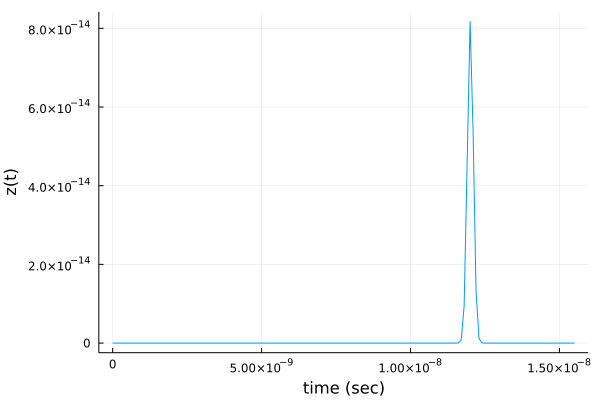
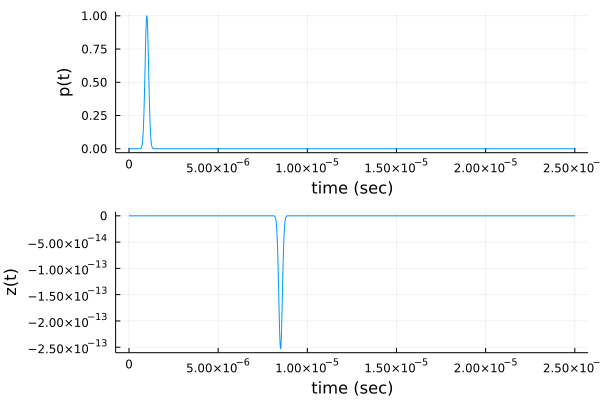
update LTIDir A

diff --git a/docs/src/directionalLTI/dirLTIsource.md b/docs/src/directionalLTI/dirLTIsource.md
@@ -108,15 +108,18 @@ using LTVsystems
 using Plots
 𝐩ₛ =  [0.0, 0.0]
 𝐩ᵣ =  𝐩ₛ
-p(t) = δn(t,1.0e-10)
+tₚ = 1.0e-06 
+p(t) = δn(t-tₚ,1.0e-07)
 𝐛 = [1.0,0.0]
-G(θ) = 𝒩ᵤ(θ, μ=0.0, σ=π/8)
+G(θ) = 𝒩ᵤ(θ, μ=0.0, σ=π/6)
 q = LTIsourceDTI(𝐩ₛ,p,𝐛,G)
-α₀ = 0.7; 𝛏₀ = [1.8,0.0]
+α₀ = -0.7; 𝛏₀ = [3.75e-06c,0.0]
 r = pointReflector(𝛏₀,α₀,q)
 z = LTIreceiverDTI([r],𝐩ᵣ,𝐛,G)
-t = 0.0:1.0e-10:15.5e-9
-plot( t, z(t), xlab="time (sec)", ylab="z(t)", legend=:false)
+t=0.0:1.0e-08:25.0e-06
+p1 = plot(t,p, xlab="time (sec)", ylab="p(t)", legend=:false)
+p2 = plot( t, z(t), xlab="time (sec)", ylab="z(t)", legend=:false)
+plot(p1,p2,layout=(2,1))
 ```
 ![](https://raw.githubusercontent.com/NMSU-ISA/LTVsystems/main/docs/src/assets/scenarioA_LTIDirsignal.png)
 
@@ -134,16 +137,16 @@ using LTVsystems
 using Plots
 𝐩ₛ =  [0.0, 0.0]
 𝐩ᵣ =  𝐩ₛ
-p(t) = δn(t,1.0e-10)
+tₚ = 1.0e-06 
+p(t) = δn(t-tₚ,1.0e-07)
 𝐛 = [1.0,0.0]
-G(θ) = 𝒩ᵤ(θ, μ=0.0, σ=π/8)
+G(θ) = 𝒩ᵤ(θ, μ=0.0, σ=π/6)
 q = LTIsourceDTI(𝐩ₛ,p,𝐛,G)
-α₀ = 0.7; 𝛏₀ = [1.8,0.0]
+α₀ = -0.7; 𝛏₀ = [3.75e-06c,0.0]
 r = pointReflector(𝛏₀,α₀,q)
 z = LTIreceiverDTI([r],𝐩ᵣ,𝐛,G)
-f(ξ::Vector{Float64}) = (z(2(norm(ξ-𝐩ₛ))/c).*(D(ξ::Vector{Float64}))^2)/
-                        (A(norm(ξ-𝐩ₛ)/c))^2
-inverse2Dplot([q],[r],[z],f)                        
+f(ξ::Vector{Float64}) = (z(2(norm(ξ-𝐩ₛ))/c).*(D(ξ::Vector{Float64}))^2)/(A(norm(ξ-𝐩ₛ)/c))^2
+inversePlot2D([q],[r],[z],f)                        
 ```
 ![](https://raw.githubusercontent.com/NMSU-ISA/LTVsystems/main/docs/src/assets/scenarioA_DirTIsimulation.png)
 
